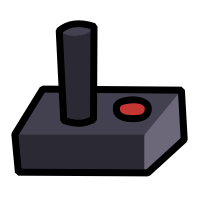
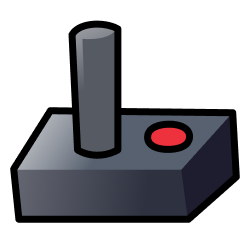
Novos icones e postagem

diff --git a/assets/css/content.css b/assets/css/content.css
@@ -48,3 +48,38 @@
   padding: 0rem 2rem;
   list-style: outside disc;
 }
+
+.blog .nuxt-content .nuxt-content-highlight {
+  border-radius: 0.3rem;
+  background-color: #1e1e1e;
+  margin: auto;
+  margin-bottom: 1rem;
+}
+
+@media (min-width: 768px) {
+  .blog .nuxt-content .nuxt-content-highlight {
+    width: 80%;
+  }
+}
+
+.blog .nuxt-content .nuxt-content-highlight .filename {
+  padding: 0.6rem 1rem 0rem 1rem;
+  width: 100%;
+  color: #a6a6a6;
+  display: flex;
+  justify-content: end;
+}
+
+.blog .nuxt-content .nuxt-content-highlight pre {
+  padding-top: 0rem;
+  margin-top: 0rem;
+}
+
+.blog .nuxt-content .nuxt-content-highlight pre code, .blog .nuxt-content .nuxt-content-highlight pre code * {
+  font-family: ui-monospace, SFMono-Regular, Menlo, Monaco, Consolas, "Liberation Mono", "Courier New", monospace;
+  font-size: 1rem;
+}
+
+pre[class*="language-"] {
+  background: none !important;
+}

diff --git a/components/list/CategoryCompact.vue b/components/list/CategoryCompact.vue
@@ -1,7 +1,7 @@
 <template>
   <div :class="'category-compact ' + cat">
     <div class="header">
-      <h1>{{ title }}</h1>
+      <div class="title"><img :src="`/img/${cat}.png`" :alt="cat" /><h1>{{ title }}</h1></div>
       <nuxt-link class="fupi-btn" :to="localePath('/' + cat)">{{ $t("mais") }}</nuxt-link>
     </div>
     <thing-list>
@@ -48,11 +48,21 @@ export default {
   justify-content: space-between;
 }
 
-.category-compact .header h1 {
+.category-compact .header .title {
+  display: flex;
+  gap: 0.6rem;
+  align-items: center;
+}
+
+.category-compact .header .title h1 {
   font-size: 1.625rem;
   text-align: center;
   font-weight: bold;
   color: var(--theme-title);
+}
+
+.category-compact .header .title img {
+  height: 2rem;
 }
 
 .category-compact .header a {

diff --git a/nuxt.config.js b/nuxt.config.js
@@ -6,10 +6,6 @@ export default {
     fallback: true,
   },
 
-  router: {
-    base: '/fupisite2/'
-  },
-
   // Global page headers: https://go.nuxtjs.dev/config-head
   head: {
     title: 'fupisite2',
@@ -36,6 +32,11 @@ export default {
   content: {
     liveEdit: false,
     fullTextSearchFields: ['title', 'description', 'tags', 'text'],
+    markdown: {
+      prism: {
+        theme: 'prism-themes/themes/prism-vsc-dark-plus.css'
+      }
+    },
   },
 
   // Global CSS: https://go.nuxtjs.dev/config-css

diff --git a/components/list/ThingItem.vue b/components/list/ThingItem.vue
@@ -1,7 +1,7 @@
 <template>
   <NuxtLink :to="localePath(`/${path}/${slug}`)" class="thing fupi-btn">
     <div class="main">
-      <img :src="icon ? icon : '/img/Eu.png'" alt="ícone da postagem" class="sticker">
+      <img :src="icon ? icon : '/img/icons/Jigsaw.png'" alt="ícone da postagem" class="sticker">
       <div>
         <p class="title">{{ title }}</p>
         <p class="description">{{ description }}</p>

diff --git a/components/PageHeader.vue b/components/PageHeader.vue
@@ -2,7 +2,7 @@
   <div>
     <div class="thing-header">
       <div class="main">
-        <img :src="icon ? icon : '/img/blog.png'" alt="ícone da postagem" class="reduced-motion sticker">
+        <img :src="icon ? icon : '/img/icons/Jigsaw.png'" alt="ícone da postagem" class="reduced-motion sticker">
         <div>
           <p class="title">{{ title }}</p>
           <p class="description">{{ description }}</p>

diff --git a/content/pt/blog/rodape-html.md b/content/pt/blog/rodape-html.md
@@ -1,0 +1,77 @@
+---
+title: Como fazer um rodapé HTML
+description: Como fazer um rodapé que gruda no fim da página do jeito certo!
+posted: 1637437784270
+icon: /img/SiteIcon.png
+tags: "#web #dev #tutorial #html #css"
+---
+## O problema
+
+Se você já tentou fazer um site usando HTML deve ter encontrado esse problema: fez um cabeçalho e rodapé, tudo bonitinho, e aí ISSO acontece:
+
+![](/img/blog/rodape-html/RodapeRuim.png)
+
+Seu site não alcança o fim da janela e o rodapé fica flutuando.
+
+Vou usar esse exemplo básico de site para o tutorial: https://codepen.io/fupicat/pen/QWMPjJr - **Acesse o link para acompanhar!!**
+
+## O processo
+
+A primeira coisa que eu pensei para consertar foi só colocar um tamanho mínimo no elemento ```section``` da página. Vou usar a medida de tamanho ```vh``` para dizer quanto por cento da altura da tela eu quero que a página tenha:
+
+```css{3}[main.css]
+section {
+  margin: 0rem 6rem;
+  min-height: 73.5vh;
+}
+```
+
+(para achar o valor exato de 73,5% eu só fui testando valores maiores até conseguir fazer a barra de rolagem sumir)
+
+Isso funcionou, mas tem um problema: só funciona com o meu tamanho de tela. Se eu der zoom, a barra de rolagem aparece novamente. Alguém com uma tela maior ainda veria o meu rodapé flutuando um pouquinho, o que é completamente inaceitável.
+
+![](/img/blog/rodape-html/RodapeMedio.png)
+
+## A solução
+
+Portanto, um jeito mais elegante e prático de resolver esse problema é usando uma flexbox - uma caixa redimensionável que distribui os elementos dentro dela automaticamente de acordo com o seu tamanho. Eu vou transformar o corpo inteiro do documento em uma flexbox e mudar o seu tamanho para ```100vh``` para que ele ocupe 100% da altura da tela:
+
+```css{2-4}[main.css]
+body {
+  display: flex;
+  flex-direction: column;
+  height: 100vh;
+}
+```
+
+Agora é só eu ir nos estilos do elemento ```section``` e mudar o seu tamanho para ```100%```. Isso fará com que a página do site se expanda e tome conta do maior espaço possível na flexbox, respeitando o espaço do cabeçalho e do rodapé:
+
+```css{3}[main.css]
+section {
+  margin: 0rem 6rem;
+  height: 100%;
+}
+```
+
+E está pronto! Agora você pode dar zoom o quanto quiser, adicionar quanto conteúdo quiser na página, e o rodapé vai continuar grudado no fundo da janela.
+
+![](/img/blog/rodape-html/RodapeBom.png)
+
+## O resumo
+
+O CSS final que você precisa é assim (troque ```section``` por qualquer que seja o elemento que você quer expandir):
+
+```css{}[main.css]
+body {
+  display: flex;
+  flex-direction: column;
+  height: 100vh;
+}
+
+section {
+  margin: 0rem 6rem;
+  height: 100%;
+}
+```
+
+Veja o projeto completo em ação aqui: https://codepen.io/fupicat/pen/rNzbNxr

diff --git a/content/pt/sobre.md b/content/pt/sobre.md
@@ -3,6 +3,7 @@ title: Sobre
 description: Coisas sobre mim!
 posted: 1637097124640
 updated: 1637097124640
+icon: /img/blog.png
 nocomment: true
 ---
 <sobre-mim></sobre-mim>

diff --git a/content/en/sobre.md b/content/en/sobre.md
@@ -3,6 +3,7 @@ title: About
 description: Stuff about me!
 posted: 1637097124640
 updated: 1637097124640
+icon: /img/blog.png
 nocomment: true
 ---
 <sobre-mim></sobre-mim>
